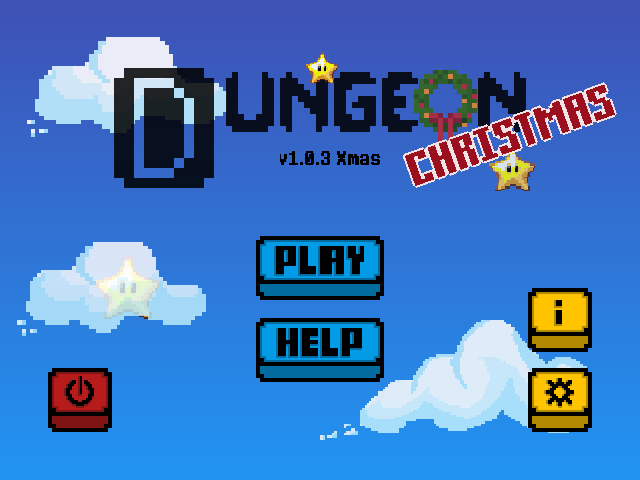
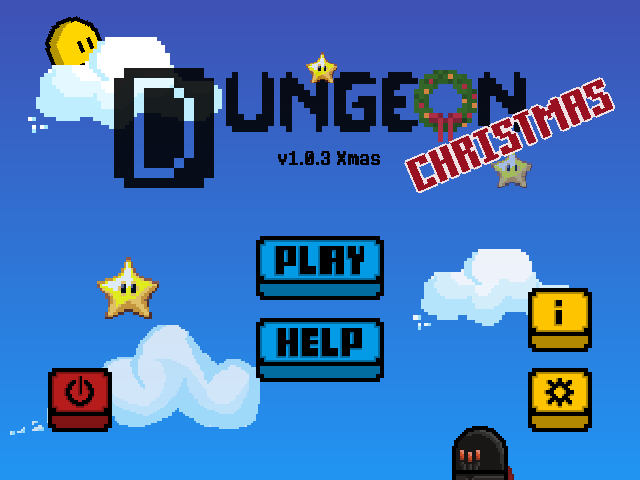
Updated dungeon.

diff --git a/tonys-studio/project/dungeon.html b/tonys-studio/project/dungeon.html
@@ -15,6 +15,7 @@
     <link rel="stylesheet" href="css/text.css">
     <link rel="stylesheet" href="css/sidebar.css">
     <link rel="stylesheet" href="css/download.css">
+    <link rel="stylesheet" href="css/snow.css">
     <script src="js/detectmobilebrowser.js"></script>
     <script>
         check('dungeon-mobile.html');
@@ -70,12 +71,17 @@
             </div>
             <div class="item">
                 <div class="extra">
-                    <a href="https://www.tapechat.net/uu/A61Y3W/3OBEBVAV" target="_blank">Redicule Me</a>
+                    <a href="https://www.tapechat.net/uu/A61Y3W/3OBEBVAV" target="_blank"><i>Redicule Me</i></a>
                 </div>
             </div>
             <div class="item">
                 <div class="extra">
-                    <a href="https://gitee.com/tonys-studio/dungeon" target="_blank">Star Dungeon on Gitee</a>
+                    <a href="https://gitee.com/tonys-studio/dungeon" target="_blank"><i>Star Dungeon on Gitee</i></a>
+                </div>
+            </div>
+            <div class="item">
+                <div class="extra">
+                    <a href="../project.html" target="_blank"><i>Go Back</i></a>
                 </div>
             </div>
         </div>
@@ -127,6 +133,7 @@
                         <div class="swiper-slide"><img src="res/dungeon/2-01.png" alt="screenshot"></div>
                         <div class="swiper-slide"><img src="res/dungeon/2-02.gif" alt="screenshot"></div>
                         <div class="swiper-slide"><img src="res/dungeon/2-03.gif" alt="screenshot"></div>
+                        <div class="swiper-slide"><img src="res/dungeon/2-04.png" alt="screenshot"></div>
                     </div>
                     <div class="swiper-pagination"></div>
                     <div class="swiper-button-prev"></div>
@@ -293,6 +300,9 @@
         </div>
     </div>
 
+    <!-- Extra snow. -->
+    <div class="snow-container"></div>
+
     <hr>
     <footer class="footer">
         <div class="copyright">
@@ -307,6 +317,11 @@
             </span>
         </div>
     </footer>
+
+    <script src="https://cdnjs.cloudflare.com/ajax/libs/jquery/3.6.1/jquery.min.js"
+        integrity="sha512-aVKKRRi/Q/YV+4mjoKBsE4x3H+BkegoM/em46NNlCqNTmUYADjBbeNefNxYV7giUp0VxICtqdrbqU7iVaeZNXA=="
+        crossorigin="anonymous" referrerpolicy="no-referrer"></script>
+    <script src="http://www.lmlblog.com/winter/templets/xq/js/snowy.js"></script>
 </body>
 
 </html>

diff --git a/tonys-studio/project/dungeon-mobile.html b/tonys-studio/project/dungeon-mobile.html
@@ -10,6 +10,7 @@
 
     <link rel="icon" href="res/logo.ico" type="image/x-icon" />
     <link rel="stylesheet" href="css/swiper-bundle.min.css">
+    <link rel="stylesheet" href="css/snow.css">
     <style>
         .slide {
             text-align: center;
@@ -28,10 +29,16 @@
         p {
             text-indent: 2ch;
         }
+        
+        body {
+            background-color: lightblue;
+        }
     </style>
 </head>
 
 <body>
+    <div class="back"></div>
+
     <header class="header" id="top">
         <h1>Dungeon</h1>
     </header>
@@ -93,6 +100,7 @@
                         <div class="swiper-slide"><img src="res/dungeon/2-01.png" alt="screenshot"></div>
                         <div class="swiper-slide"><img src="res/dungeon/2-02.gif" alt="screenshot"></div>
                         <div class="swiper-slide"><img src="res/dungeon/2-03.gif" alt="screenshot"></div>
+                        <div class="swiper-slide"><img src="res/dungeon/2-04.png" alt="screenshot"></div>
                     </div>
                     <div class="swiper-pagination"></div>
                     <div class="swiper-button-prev"></div>
@@ -283,6 +291,13 @@
     </footer>
     <script src="js/restrict.js">
     </script>
+
+    <!-- Extra snow. -->
+    <div class="snow-container"></div>
+    <script src="https://cdnjs.cloudflare.com/ajax/libs/jquery/3.6.1/jquery.min.js"
+        integrity="sha512-aVKKRRi/Q/YV+4mjoKBsE4x3H+BkegoM/em46NNlCqNTmUYADjBbeNefNxYV7giUp0VxICtqdrbqU7iVaeZNXA=="
+        crossorigin="anonymous" referrerpolicy="no-referrer"></script>
+    <script src="http://www.lmlblog.com/winter/templets/xq/js/snowy.js"></script>
 </body>
 
 </html>

diff --git a/tonys-studio/project/js/snow.js b/tonys-studio/project/js/snow.js
@@ -1,0 +1,46 @@
+function snow() {
+    var flake = document.createElement('div');
+    // 雪花字符 ❄❉❅❆✻✼❇❈❊✥✺
+    flake.innerHTML = '❅';
+    flake.style.cssText = 'position:absolute;color:#fff;';
+
+    //获取页面的高度 相当于雪花下落结束时Y轴的位置
+    var documentHieght = window.innerHeight;
+    //获取页面的宽度，利用这个数来算出，雪花开始时left的值
+    var documentWidth = window.innerWidth;
+
+    //定义生成一片雪花的毫秒数
+    var millisec =10;
+    setInterval(function() {
+        var startLeft = Math.random() * documentWidth;
+        var endLeft = Math.random() * documentWidth;
+        var flakeSize = 3 + 20 * Math.random();
+        var durationTime = 4000 + 7000 * Math.random();
+        var startOpacity = 0.7 + 0.3 * Math.random();
+        var endOpacity = 0.2 + 0.2 * Math.random();
+        var cloneFlake = flake.cloneNode(true);
+
+        cloneFlake.style.cssText += `
+                left: ${startLeft}px;
+                opacity: ${startOpacity};
+                font-size:${flakeSize}px;
+                top:-25px;
+                    transition:${durationTime}ms;`;
+
+        document.body.appendChild(cloneFlake);
+
+        setTimeout(function() {
+            cloneFlake.style.cssText += `
+                        left: ${endLeft}px;
+                        top:${documentHieght}px;
+                        opacity:${endOpacity};`;
+
+            setTimeout(function() {
+                cloneFlake.remove();
+            }, durationTime);
+        }, 0);
+
+    }, millisec);
+}
+
+snow();

diff --git a/tonys-studio/index.html b/tonys-studio/index.html
@@ -65,6 +65,7 @@
                         <li><a href="collection.html">Collections</a></li>
                         <li><a href="https://www.luogu.com.cn/blog/Turmoil/" target="_blank">My Blog</a></li>
                         <li><a href="https://github.com/Lord-Turmoil?tab=repositories" target="_blank">Github</a></li>
+                        <li><a href="https://gitee.com/tonys-studio" target="_blank">Gitee</a></li>
                     </ul>
                 </div>
             </div>

diff --git a/tonys-studio/project.html b/tonys-studio/project.html
@@ -70,6 +70,7 @@
                         <li><a href="collection.html">Collections</a></li>
                         <li><a href="https://www.luogu.com.cn/blog/Turmoil/" target="_blank">My Blog</a></li>
                         <li><a href="https://github.com/Lord-Turmoil?tab=repositories" target="_blank">Github</a></li>
+                        <li><a href="https://gitee.com/tonys-studio" target="_blank">Gitee</a></li>
                     </ul>
                 </div>
             </div>

diff --git a/tonys-studio/collection.html b/tonys-studio/collection.html
@@ -66,6 +66,7 @@
                         <li><a href="project.html">Projects</a></li>
                         <li><a href="https://www.luogu.com.cn/blog/Turmoil/" target="_blank">My Blog</a></li>
                         <li><a href="https://github.com/Lord-Turmoil?tab=repositories" target="_blank">Github</a></li>
+                        <li><a href="https://gitee.com/tonys-studio" target="_blank">Gitee</a></li>
                     </ul>
                 </div>
             </div>

diff --git a/tonys-studio/mobile.html b/tonys-studio/mobile.html
@@ -26,6 +26,7 @@
         <hr>
         <h2>:(<br>Oops! We do not support mobile!</h2>
         <p>But you may like this: <a href="https://www.tapechat.net/uu/A61Y3W/3OBEBVAV">Tape</a></p>
+        <p>Or this: <a href="http://tonys-studio.top/project/dungeon-mobile.html">Dungeon</a></p>
     </div>
     <hr>
     <div class="text">

diff --git a/tonys-studio/project/css/snow.css b/tonys-studio/project/css/snow.css
@@ -1,0 +1,9 @@
+.snow-container {
+    position: fixed;
+    top: 0;
+    left: 0;
+    width: 100%;
+    height: 100%;
+    pointer-events: none;
+    z-index: 100001;
+}
